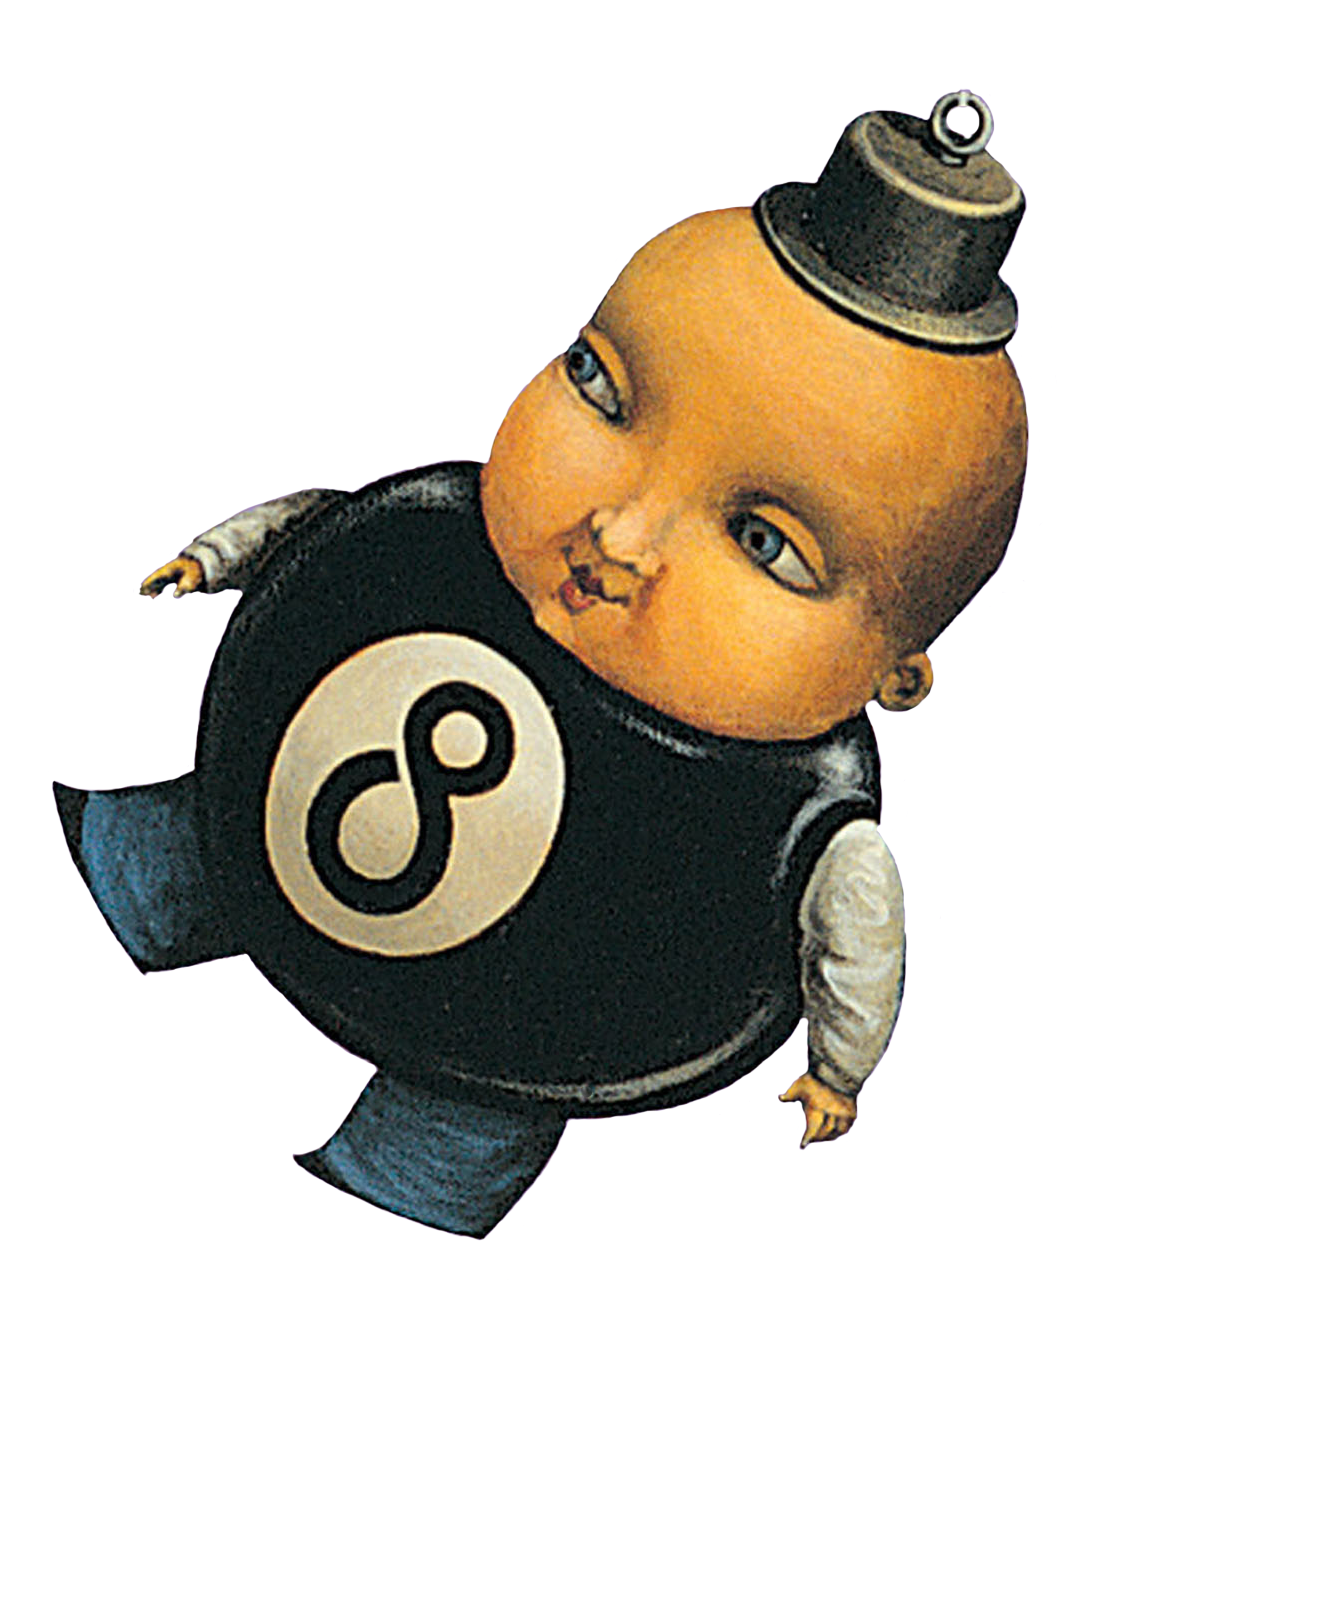
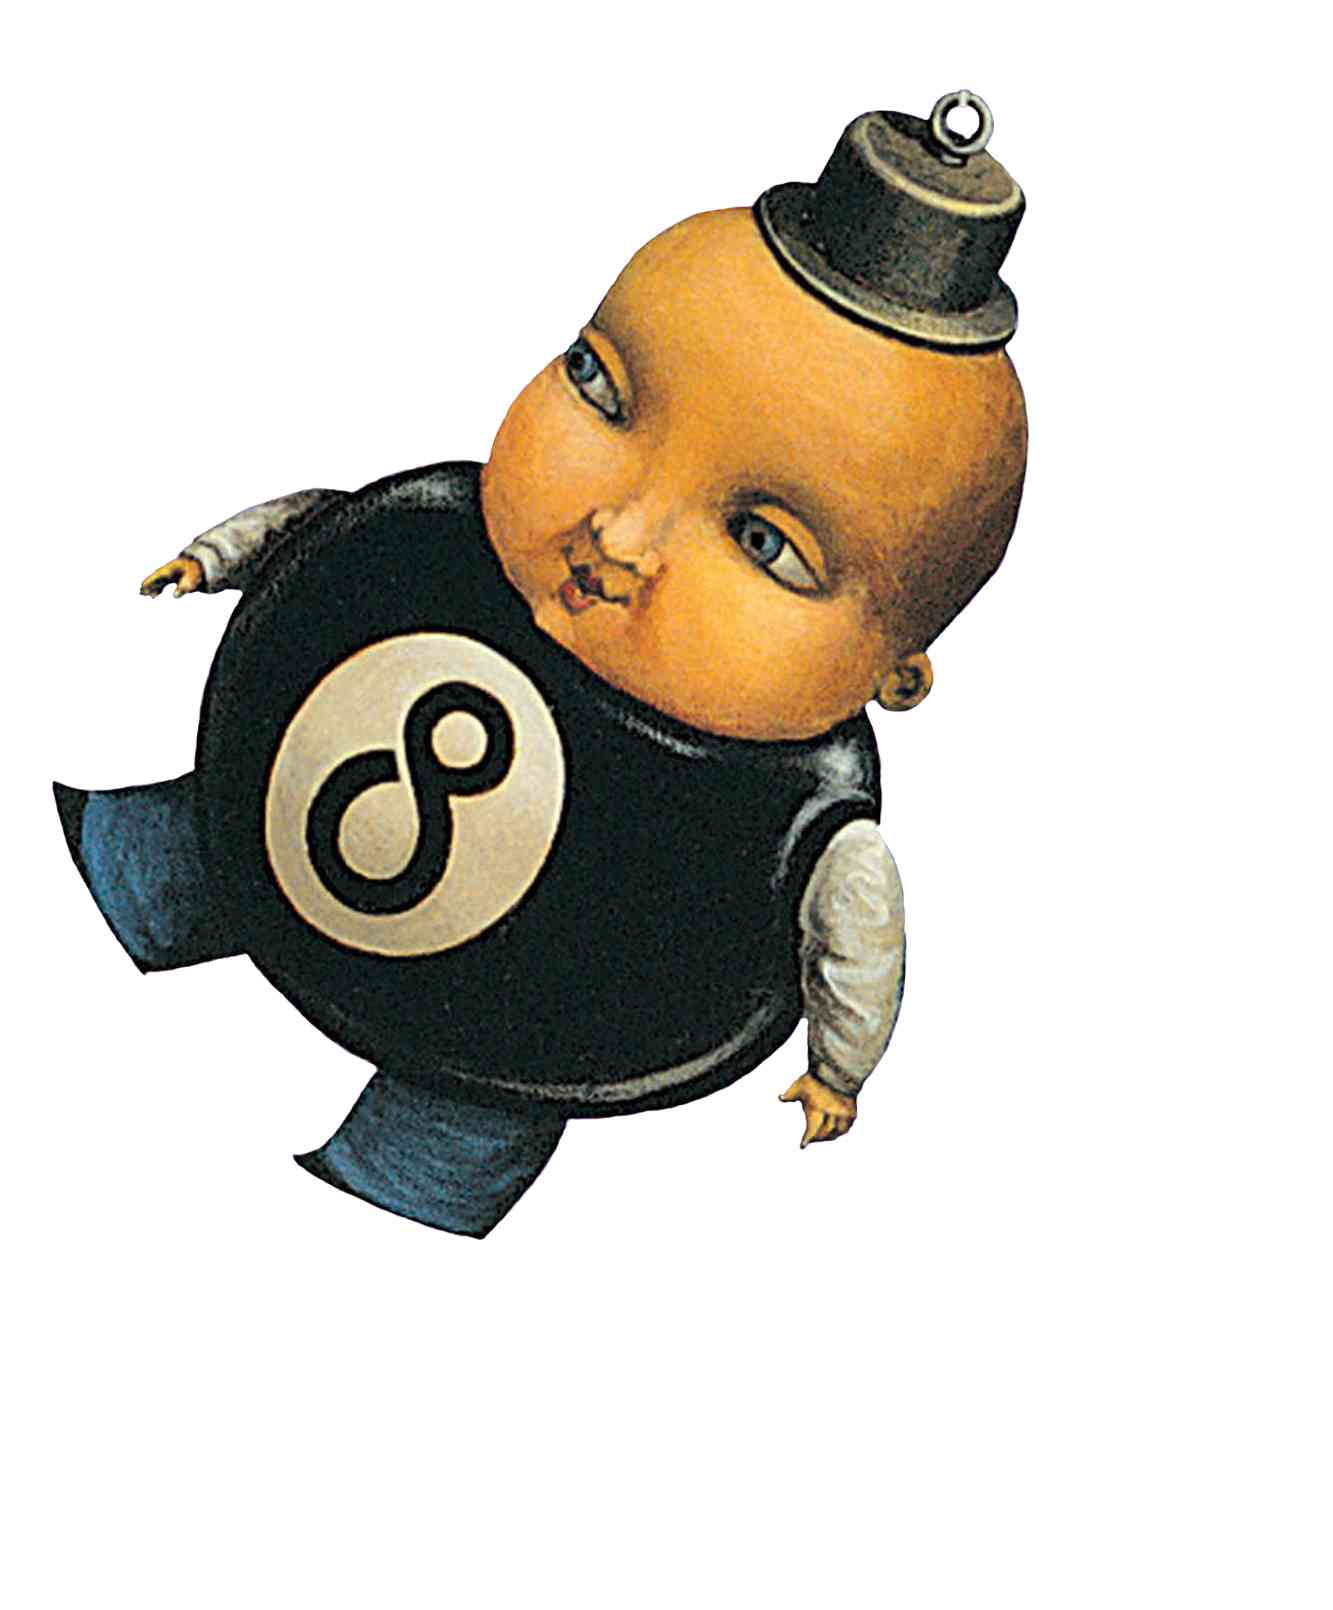
Highly compressed images

Changed region(s): [[0.3691, 0.2484, 0.3998, 0.2795], [0.123, 0.3416, 0.1538, 0.3727]]

diff --git a/gallery.html b/gallery.html
@@ -24,36 +24,36 @@
 			</ul>
 		</nav>
 		<main class="allPaintings col-md-10 col-md-offset-2">
-				<img src="assets/images/bird1.jpg" alt="Bird #1" class="painting">
-				<img src="assets/images/bird3.jpg" alt="Bird #3" class="painting">
-				<img src="assets/images/hatTrack.jpg" alt="Hat Track" class="painting">
-				<img src="assets/images/manInCan.jpg" alt="Man In Can" class="painting">
-				<img src="assets/images/papasTable.jpg" alt="Papa's Table" class="painting">
-				<img src="assets/images/theBlindCarpenter.jpg" alt="The Blind Carpenter" class="painting">
-				<img src="assets/images/vanishingPoint.jpg" alt="Vanishing Point" class="painting">
-				<img src="assets/images/aeroBoy.jpg" alt="Aero Boy" class="painting">
-				<img src="assets/images/baltimoreOri.jpg" alt="Baltimore Ori" class="painting">
-				<img src="assets/images/brainGame.jpg" alt="Brain Game" class="painting">
-				<img src="assets/images/eastOfEdo.jpg" alt="East of Edo" class="painting">
-				<img src="assets/images/forceOfLight.jpg" alt="Force of Light" class="painting">
-				<img src="assets/images/goldLongLifeGoodLuck.jpg" alt="NA" class="painting">
-				<img src="assets/images/landingInAmerica.jpg" alt="Landing in America" class="painting">
-				<img src="assets/images/lili.jpg" alt="Lili" class="painting">
-				<img src="assets/images/neckbrace.jpg" alt="Neckbrace" class="painting">
-				<img src="assets/images/8box.jpg" alt="8 box" class="painting">
-				<img src="assets/images/thisIsNotAPipewrench.jpg" alt="This Is Not A Pipewrench" class="painting">
-				<img src="assets/images/thisIsNotAFootball.jpg" alt="This Is Not A Football" class="painting">
-				<img src="assets/images/toyIn.jpg" alt="Toy In" class="painting">
-				<img src="assets/images/timeKeeper.jpg" alt="Time Keeper" class="painting">
-				<img src="assets/images/interKosmos.jpg" alt="Inter Kosmos" class="painting">
-				<img src="assets/images/funHouseRedux.jpg" alt="Fun House Redux" class="painting">
-				<img src="assets/images/soundTheAlarm.jpg" alt="Sound the Alarm" class="painting">
-				<img src="assets/images/thePhysicians.jpg" alt="The Physicians" class="painting">
-				<img src="assets/images/clarinetto.jpg" alt="Clarinetto" class="painting">
-				<img src="assets/images/theTeapot.jpg" alt="The Teapot" class="painting">
-				<img src="assets/images/trainingWings.jpg" alt="Training Wings" class="painting">
-				<img src="assets/images/nouvoLogica.jpg" alt="Nouvo Logica" class="painting">
-				<img src="assets/images/sitwell.jpg" alt="Sitwell" class="painting">
+				<img src="assets/images/compressed/bird1.jpg" alt="Bird #1" class="painting">
+				<img src="assets/images/compressed/bird3.jpg" alt="Bird #3" class="painting">
+				<img src="assets/images/compressed/hatTrack.jpg" alt="Hat Track" class="painting">
+				<img src="assets/images/compressed/manInCan.jpg" alt="Man In Can" class="painting">
+				<img src="assets/images/compressed/papasTable.jpg" alt="Papa's Table" class="painting">
+				<img src="assets/images/compressed/theBlindCarpenter.jpg" alt="The Blind Carpenter" class="painting">
+				<img src="assets/images/compressed/vanishingPoint.jpg" alt="Vanishing Point" class="painting">
+				<img src="assets/images/compressed/aeroBoy.jpg" alt="Aero Boy" class="painting">
+				<img src="assets/images/compressed/baltimoreOri.jpg" alt="Baltimore Ori" class="painting">
+				<img src="assets/images/compressed/brainGame.jpg" alt="Brain Game" class="painting">
+				<img src="assets/images/compressed/eastOfEdo.jpg" alt="East of Edo" class="painting">
+				<img src="assets/images/compressed/forceOfLight.jpg" alt="Force of Light" class="painting">
+				<img src="assets/images/compressed/goldLongLifeGoodLuck.jpg" alt="NA" class="painting">
+				<img src="assets/images/compressed/landingInAmerica.jpg" alt="Landing in America" class="painting">
+				<img src="assets/images/compressed/lili.jpg" alt="Lili" class="painting">
+				<img src="assets/images/compressed/neckbrace.jpg" alt="Neckbrace" class="painting">
+				<img src="assets/images/compressed/8box.jpg" alt="8 box" class="painting">
+				<img src="assets/images/compressed/thisIsNotAPipewrench.jpg" alt="This Is Not A Pipewrench" class="painting">
+				<img src="assets/images/compressed/thisIsNotAFootball.jpg" alt="This Is Not A Football" class="painting">
+				<img src="assets/images/compressed/toyIn.jpg" alt="Toy In" class="painting">
+				<img src="assets/images/compressed/timeKeeper.jpg" alt="Time Keeper" class="painting">
+				<img src="assets/images/compressed/interKosmos.jpg" alt="Inter Kosmos" class="painting">
+				<img src="assets/images/compressed/funHouseRedux.jpg" alt="Fun House Redux" class="painting">
+				<img src="assets/images/compressed/soundTheAlarm.jpg" alt="Sound the Alarm" class="painting">
+				<img src="assets/images/compressed/thePhysicians.jpg" alt="The Physicians" class="painting">
+				<img src="assets/images/compressed/clarinetto.jpg" alt="Clarinetto" class="painting">
+				<img src="assets/images/compressed/theTeapot.jpg" alt="The Teapot" class="painting">
+				<img src="assets/images/compressed/trainingWings.jpg" alt="Training Wings" class="painting">
+				<img src="assets/images/compressed/nouvoLogica.jpg" alt="Nouvo Logica" class="painting">
+				<img src="assets/images/compressed/sitwell.jpg" alt="Sitwell" class="painting">
 
 
 		</main>
